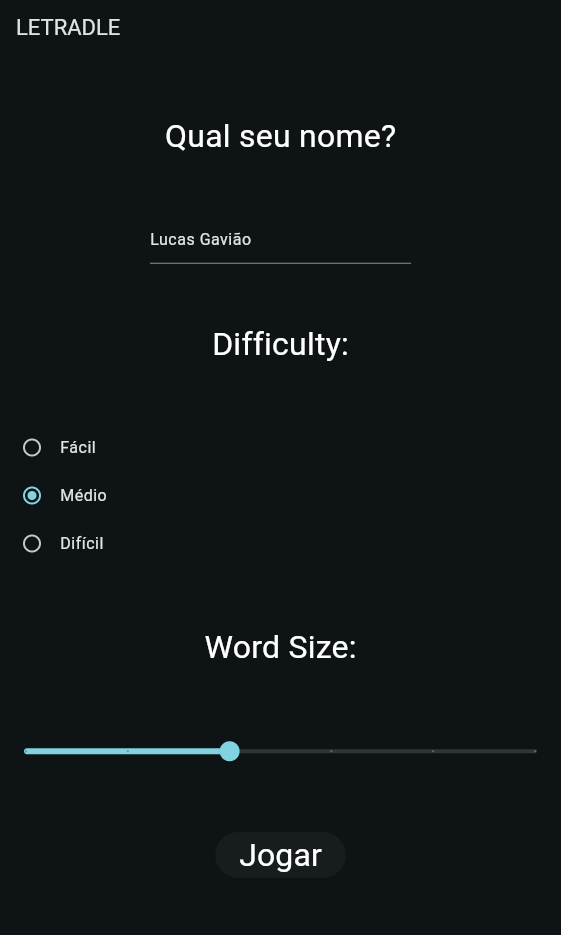
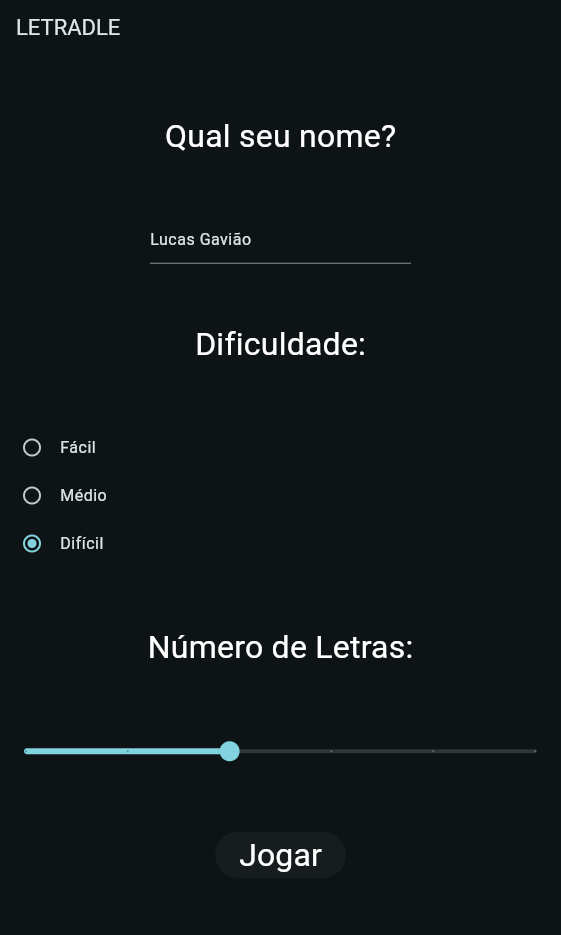
removing diacrits

Changed region(s): [[0.3333, 0.3412, 0.6364, 0.4032], [0.2424, 0.6824, 0.7273, 0.7134], [0.0303, 0.5273, 0.0909, 0.5893]]

diff --git a/lib/game.dart b/lib/game.dart
@@ -1,6 +1,7 @@
 import 'dart:math';
 import 'package:flutter/material.dart';
 import 'package:flutter/services.dart';
+import 'package:diacritic/diacritic.dart';
 
 class Game extends StatefulWidget {
   final int wordLength;
@@ -32,8 +33,7 @@ class _GameState extends State<Game> {
 
   Future<void> _initializeGame() async {
     final content = await rootBundle.loadString('assets/lexico.txt');
-    final allWords = content.split('\n').map((w) => w.trim().toUpperCase()).toList();
-
+    final allWords = content.split('\n').map((w) => removeDiacritics(w.trim().toUpperCase())).toList();
     final validWords = allWords.where((w) => w.length == widget.wordLength).toList();
     
     _dictionary = Set.from(validWords);
@@ -47,7 +47,7 @@ class _GameState extends State<Game> {
   }
 
   void _submitGuess(String value) {
-    value = value.toUpperCase();
+    value = removeDiacritics(value.toUpperCase());
 
     if (value.length != widget.wordLength) {
       ScaffoldMessenger.of(context).showSnackBar(

diff --git a/lib/home.dart b/lib/home.dart
@@ -41,7 +41,7 @@ class _HomeState extends State<Home> {
             ),
           ),
           Text(
-            'Difficulty:',
+            'Dificuldade:',
             style: TextStyle(
               color: Colors.white,
               fontSize: 32,
@@ -57,7 +57,7 @@ class _HomeState extends State<Home> {
               ],),
             ),
           Text(
-            'Word Size:',
+            'Número de Letras:',
             style: TextStyle(
               color: Colors.white,
               fontSize: 32,

diff --git a/lib/main.dart b/lib/main.dart
@@ -1,7 +1,9 @@
 import 'package:flutter/material.dart';
 import 'package:letradle/home.dart';
+import 'package:diacritic/diacritic.dart';
 
 void main() {
+  print("${removeDiacritics("Fácil, gg, mão, água, cachaça, experência!")}");
   runApp(MaterialApp(title: 'LETRADLE',
     home: Home(),
     theme: ThemeData(
